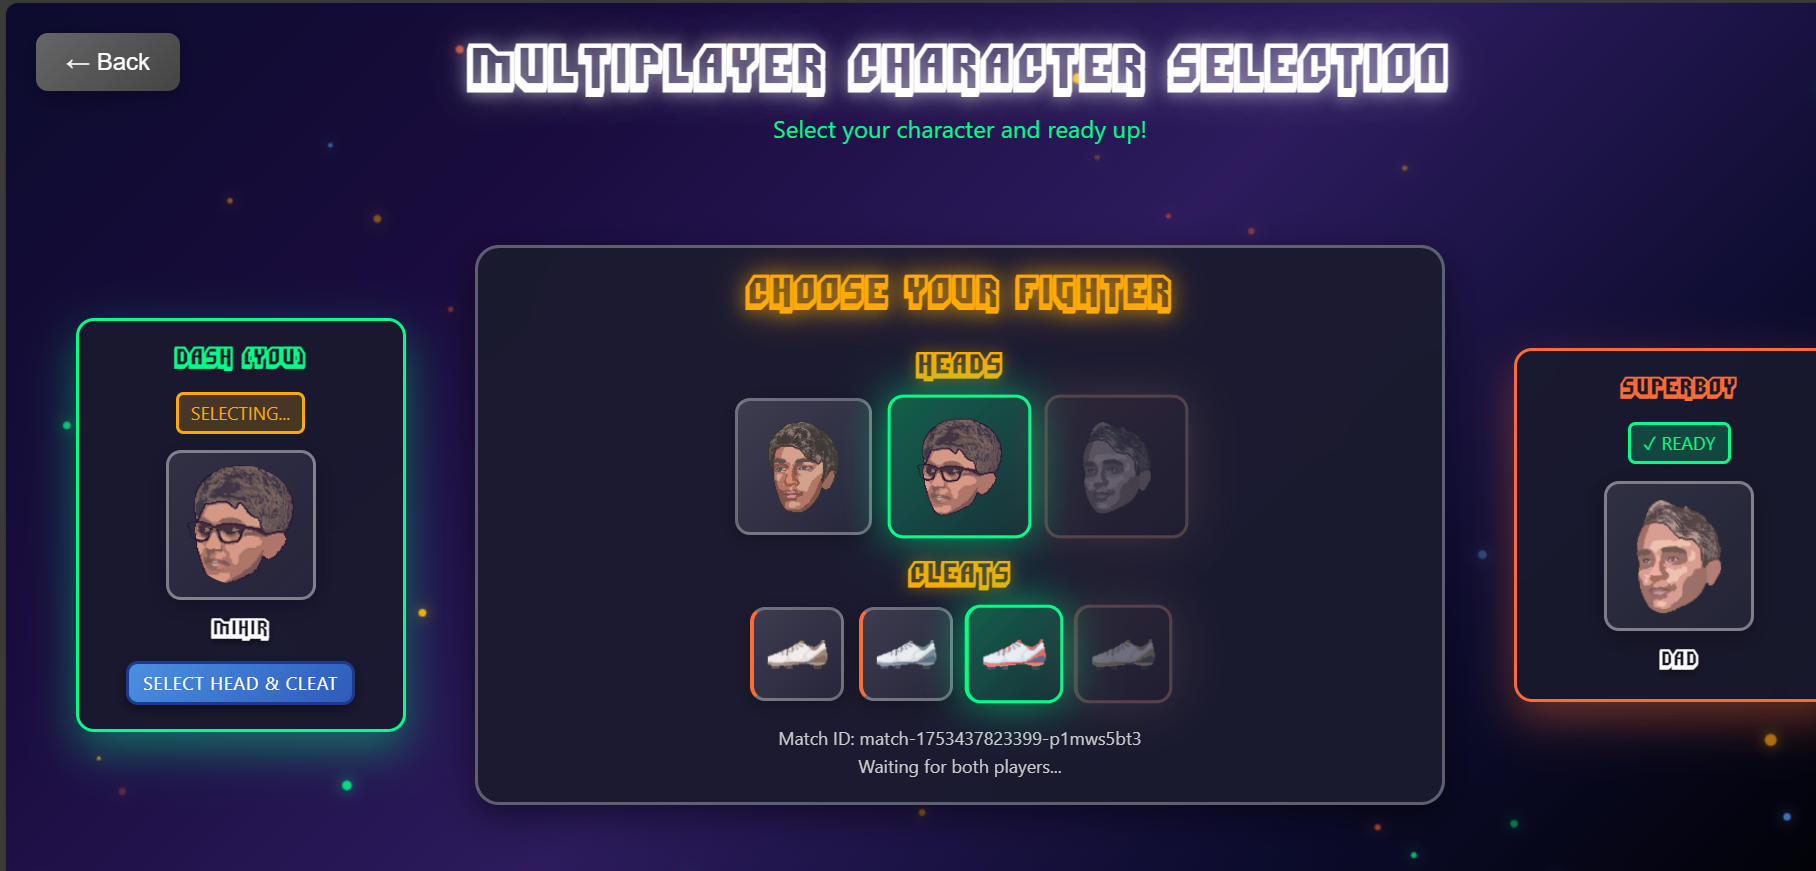
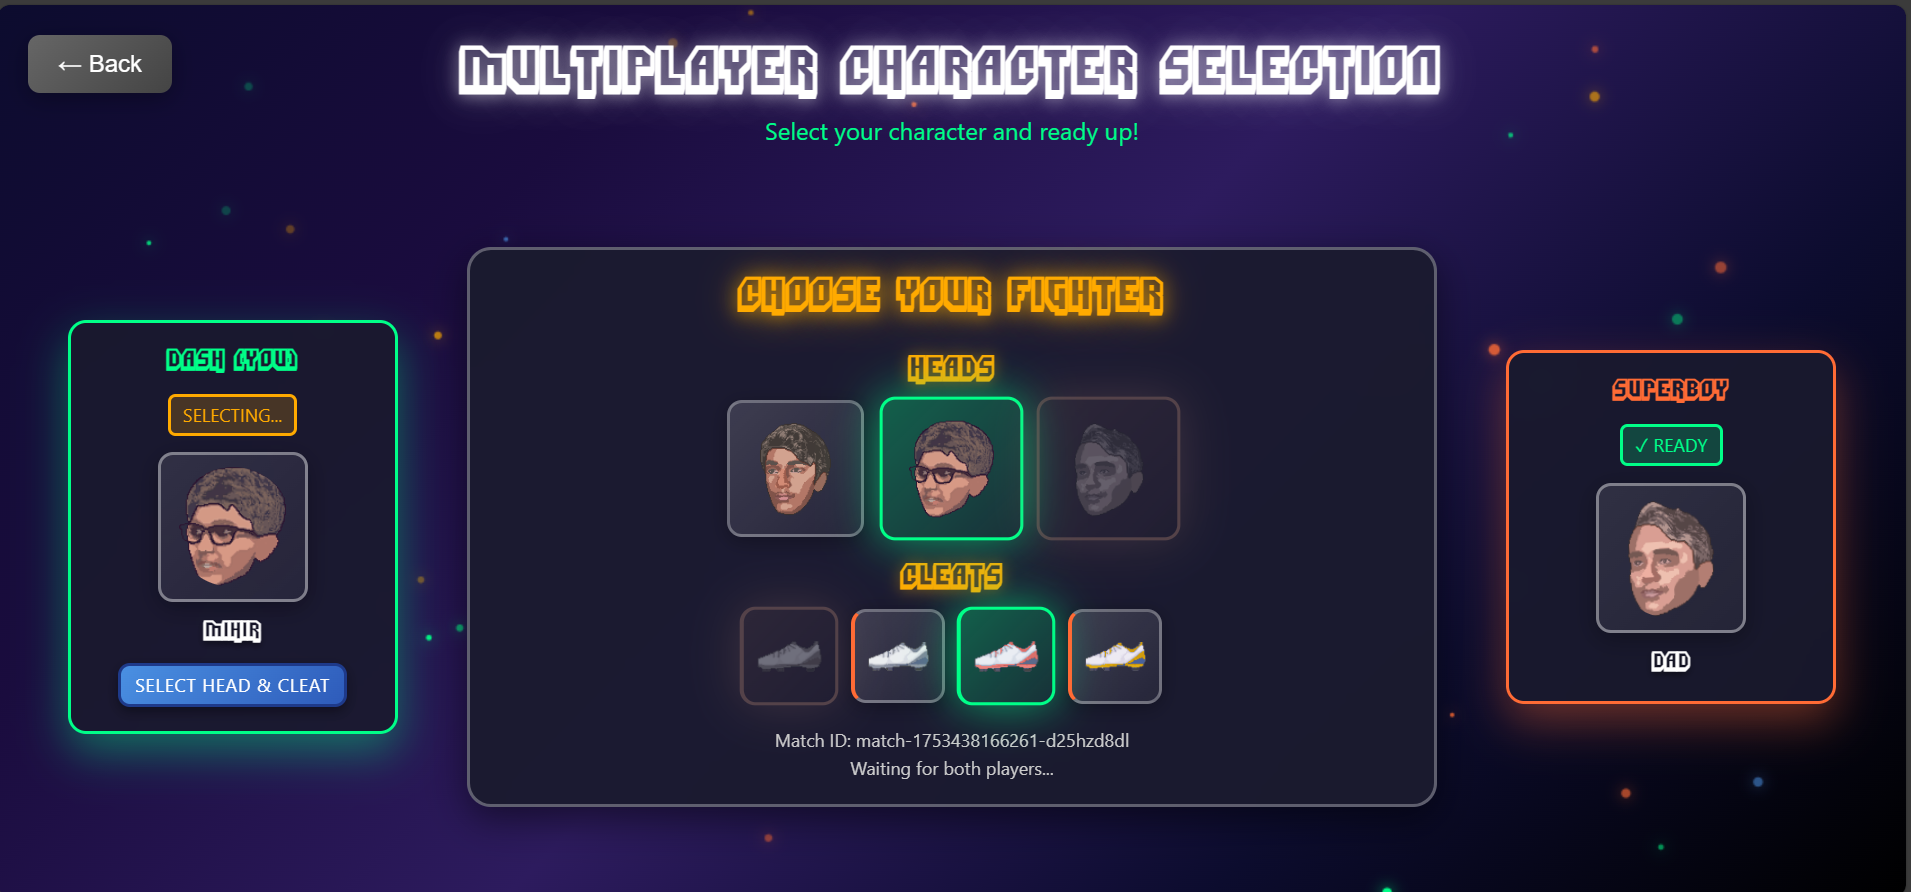
FIX: Prevent localStorage from overriding multiplayer character selections
Root cause: loadCharacterSelections() was called in create() BEFORE setMultiplayerMode(),
causing localStorage defaults to override multiplayer character selections.

Solution:
- Detect multiplayer page by URL (gameplay-multiplayer.html)
- Skip localStorage loading for multiplayer games
- Set temporary defaults that will be properly overridden by setMultiplayerMode()
- This ensures multiplayer character selections are preserved

Character selections should now work correctly in multiplayer\! 🎮

🤖 Generated with [Claude Code](https://claude.ai/code)

diff --git a/head-soccer-js/js/game-scene.js b/head-soccer-js/js/game-scene.js
@@ -214,7 +214,22 @@ class GameScene extends Phaser.Scene {
     }
     
     loadCharacterSelections() {
-        // Load character selections from localStorage or use defaults
+        // Check if this is a multiplayer game by looking at the page URL
+        const isMultiplayerPage = window.location.href.includes('gameplay-multiplayer.html');
+        
+        // Skip localStorage loading if this will be a multiplayer game
+        // (multiplayer selections will be set via setMultiplayerMode)
+        if (isMultiplayerPage) {
+            console.log('🎮 Multiplayer page detected - skipping localStorage character loading');
+            // Set temporary defaults that will be overridden by setMultiplayerMode
+            this.player1Head = 'Mihir';
+            this.player2Head = 'Nuwan';
+            this.player1Cleat = 8;
+            this.player2Cleat = 3;
+            return;
+        }
+        
+        // Load character selections from localStorage or use defaults (single-player only)
         const savedSettings = localStorage.getItem('headSoccerSettings');
         
         if (savedSettings) {
@@ -231,7 +246,7 @@ class GameScene extends Phaser.Scene {
             this.player2Cleat = 3;
         }
         
-        console.log('Character selections loaded:', {
+        console.log('Character selections loaded from localStorage:', {
             player1: { head: this.player1Head, cleat: this.player1Cleat },
             player2: { head: this.player2Head, cleat: this.player2Cleat }
         });
